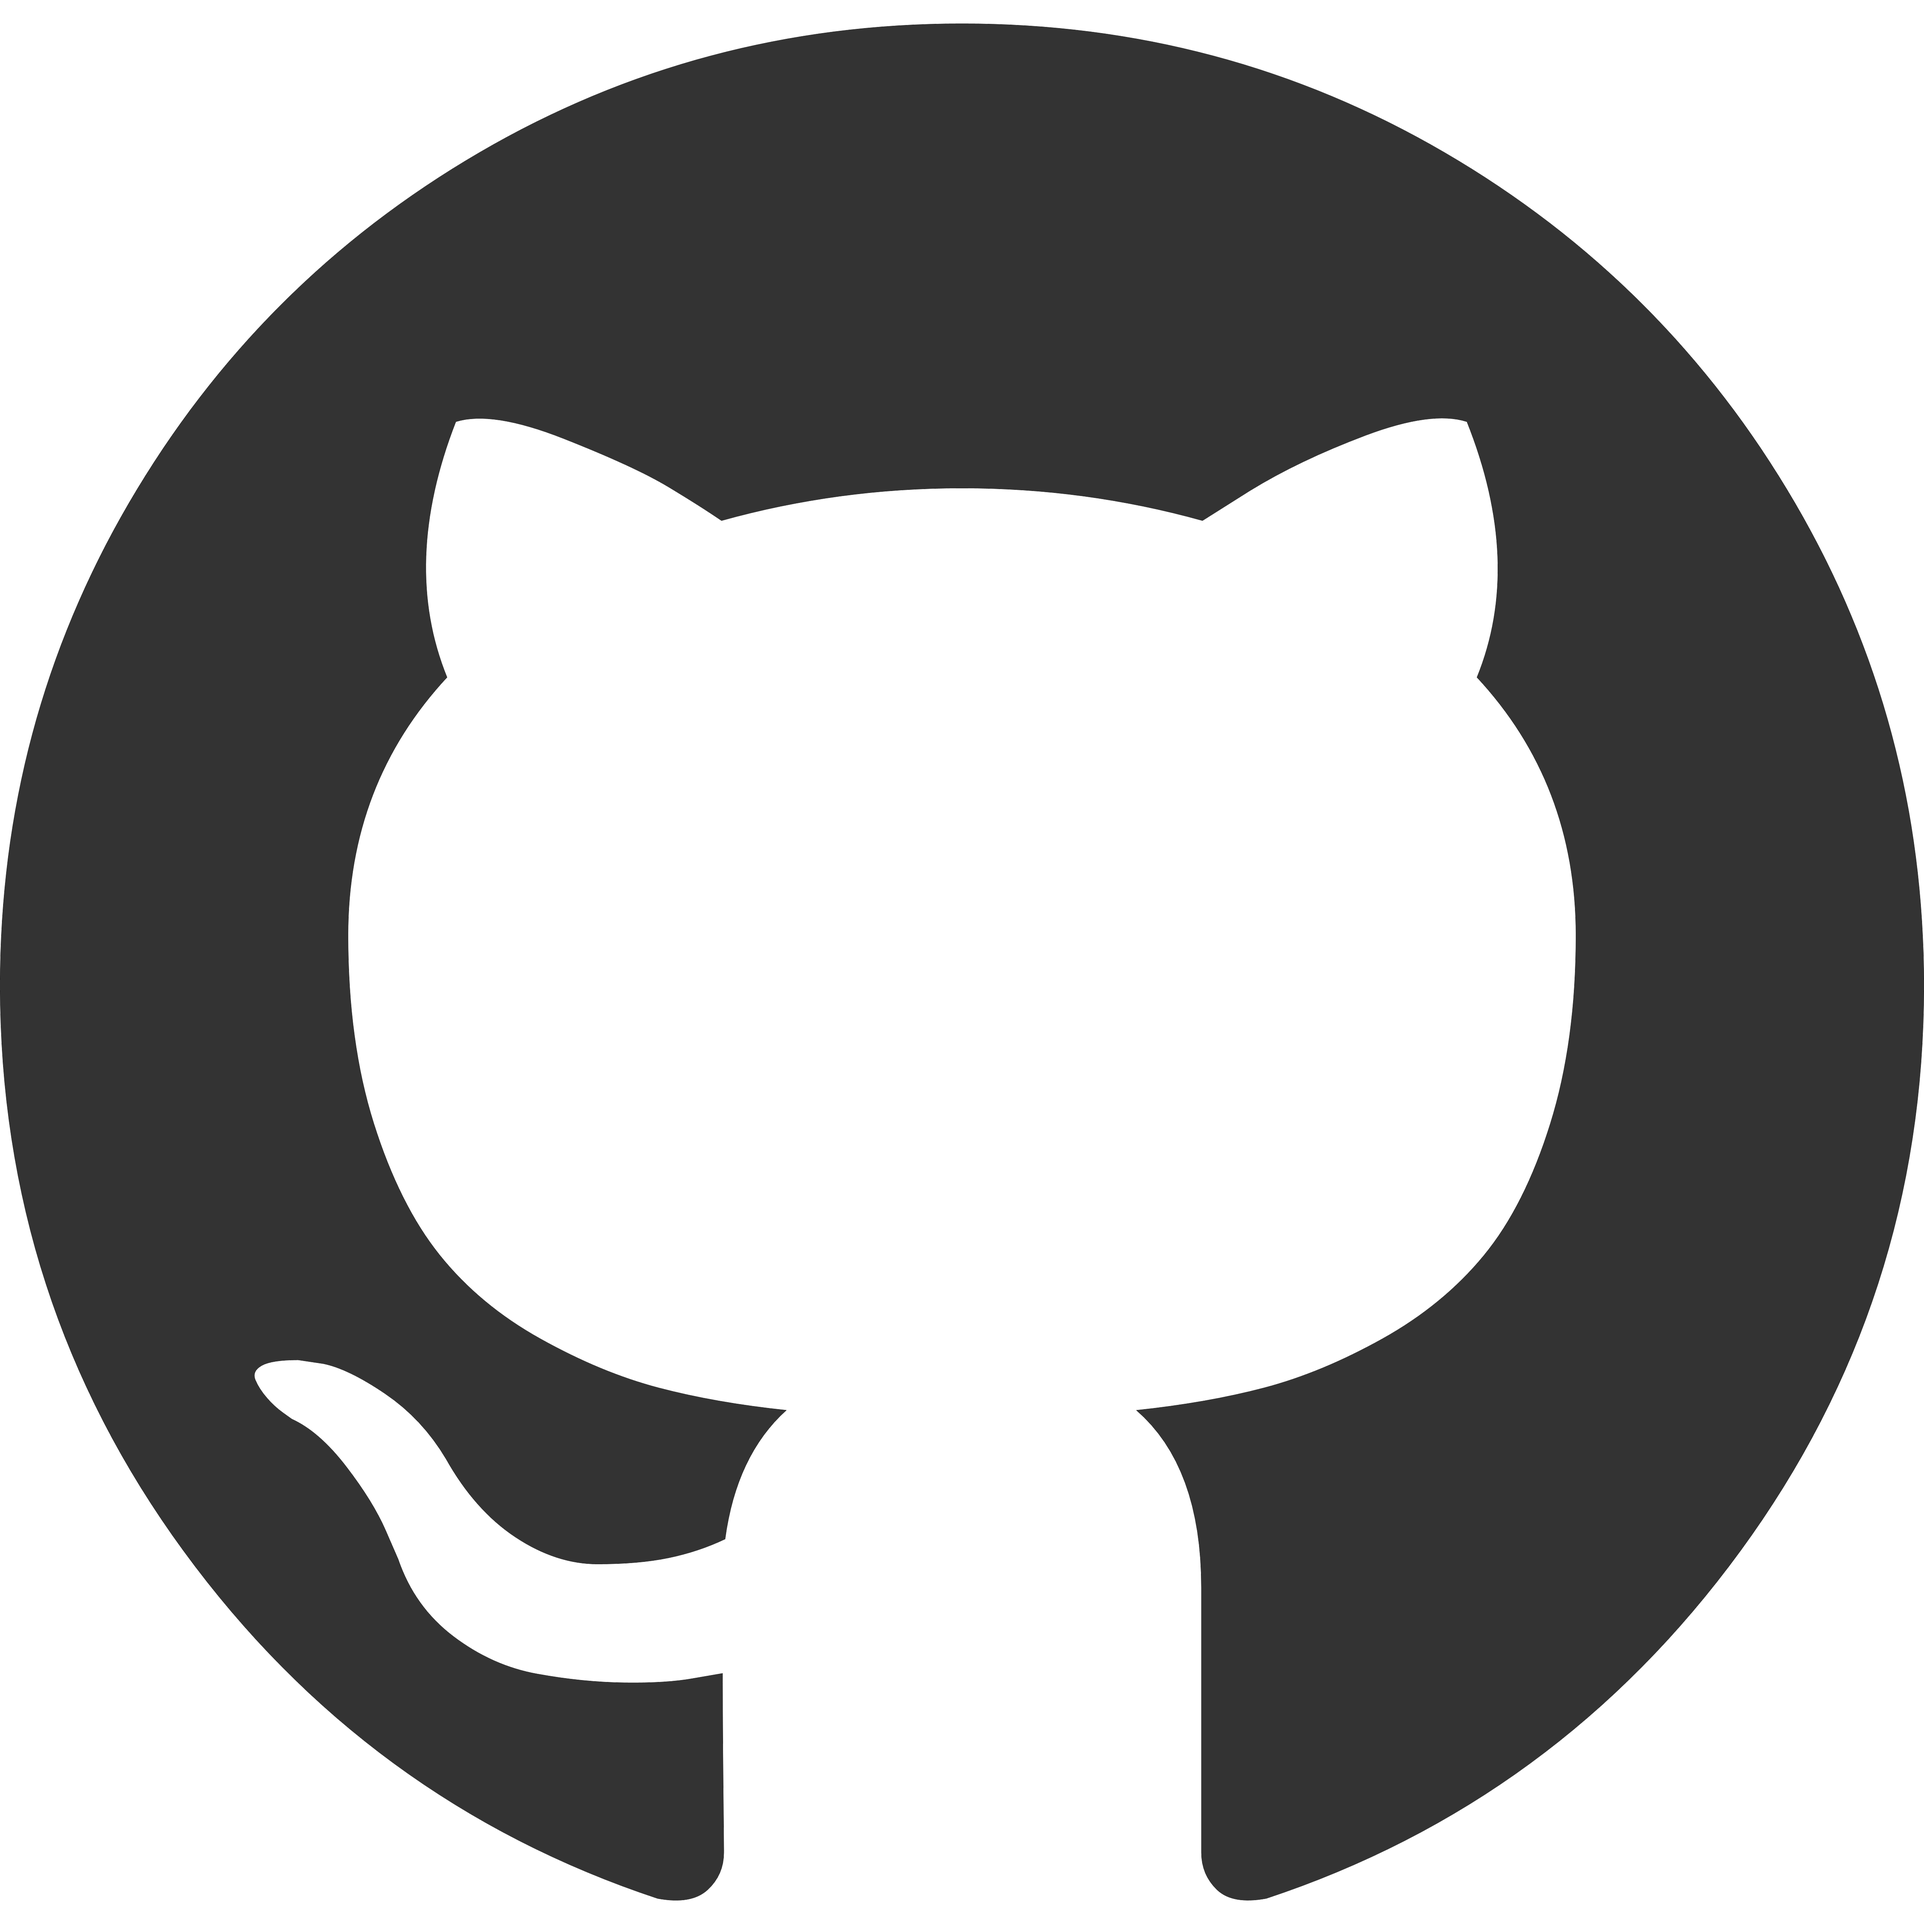
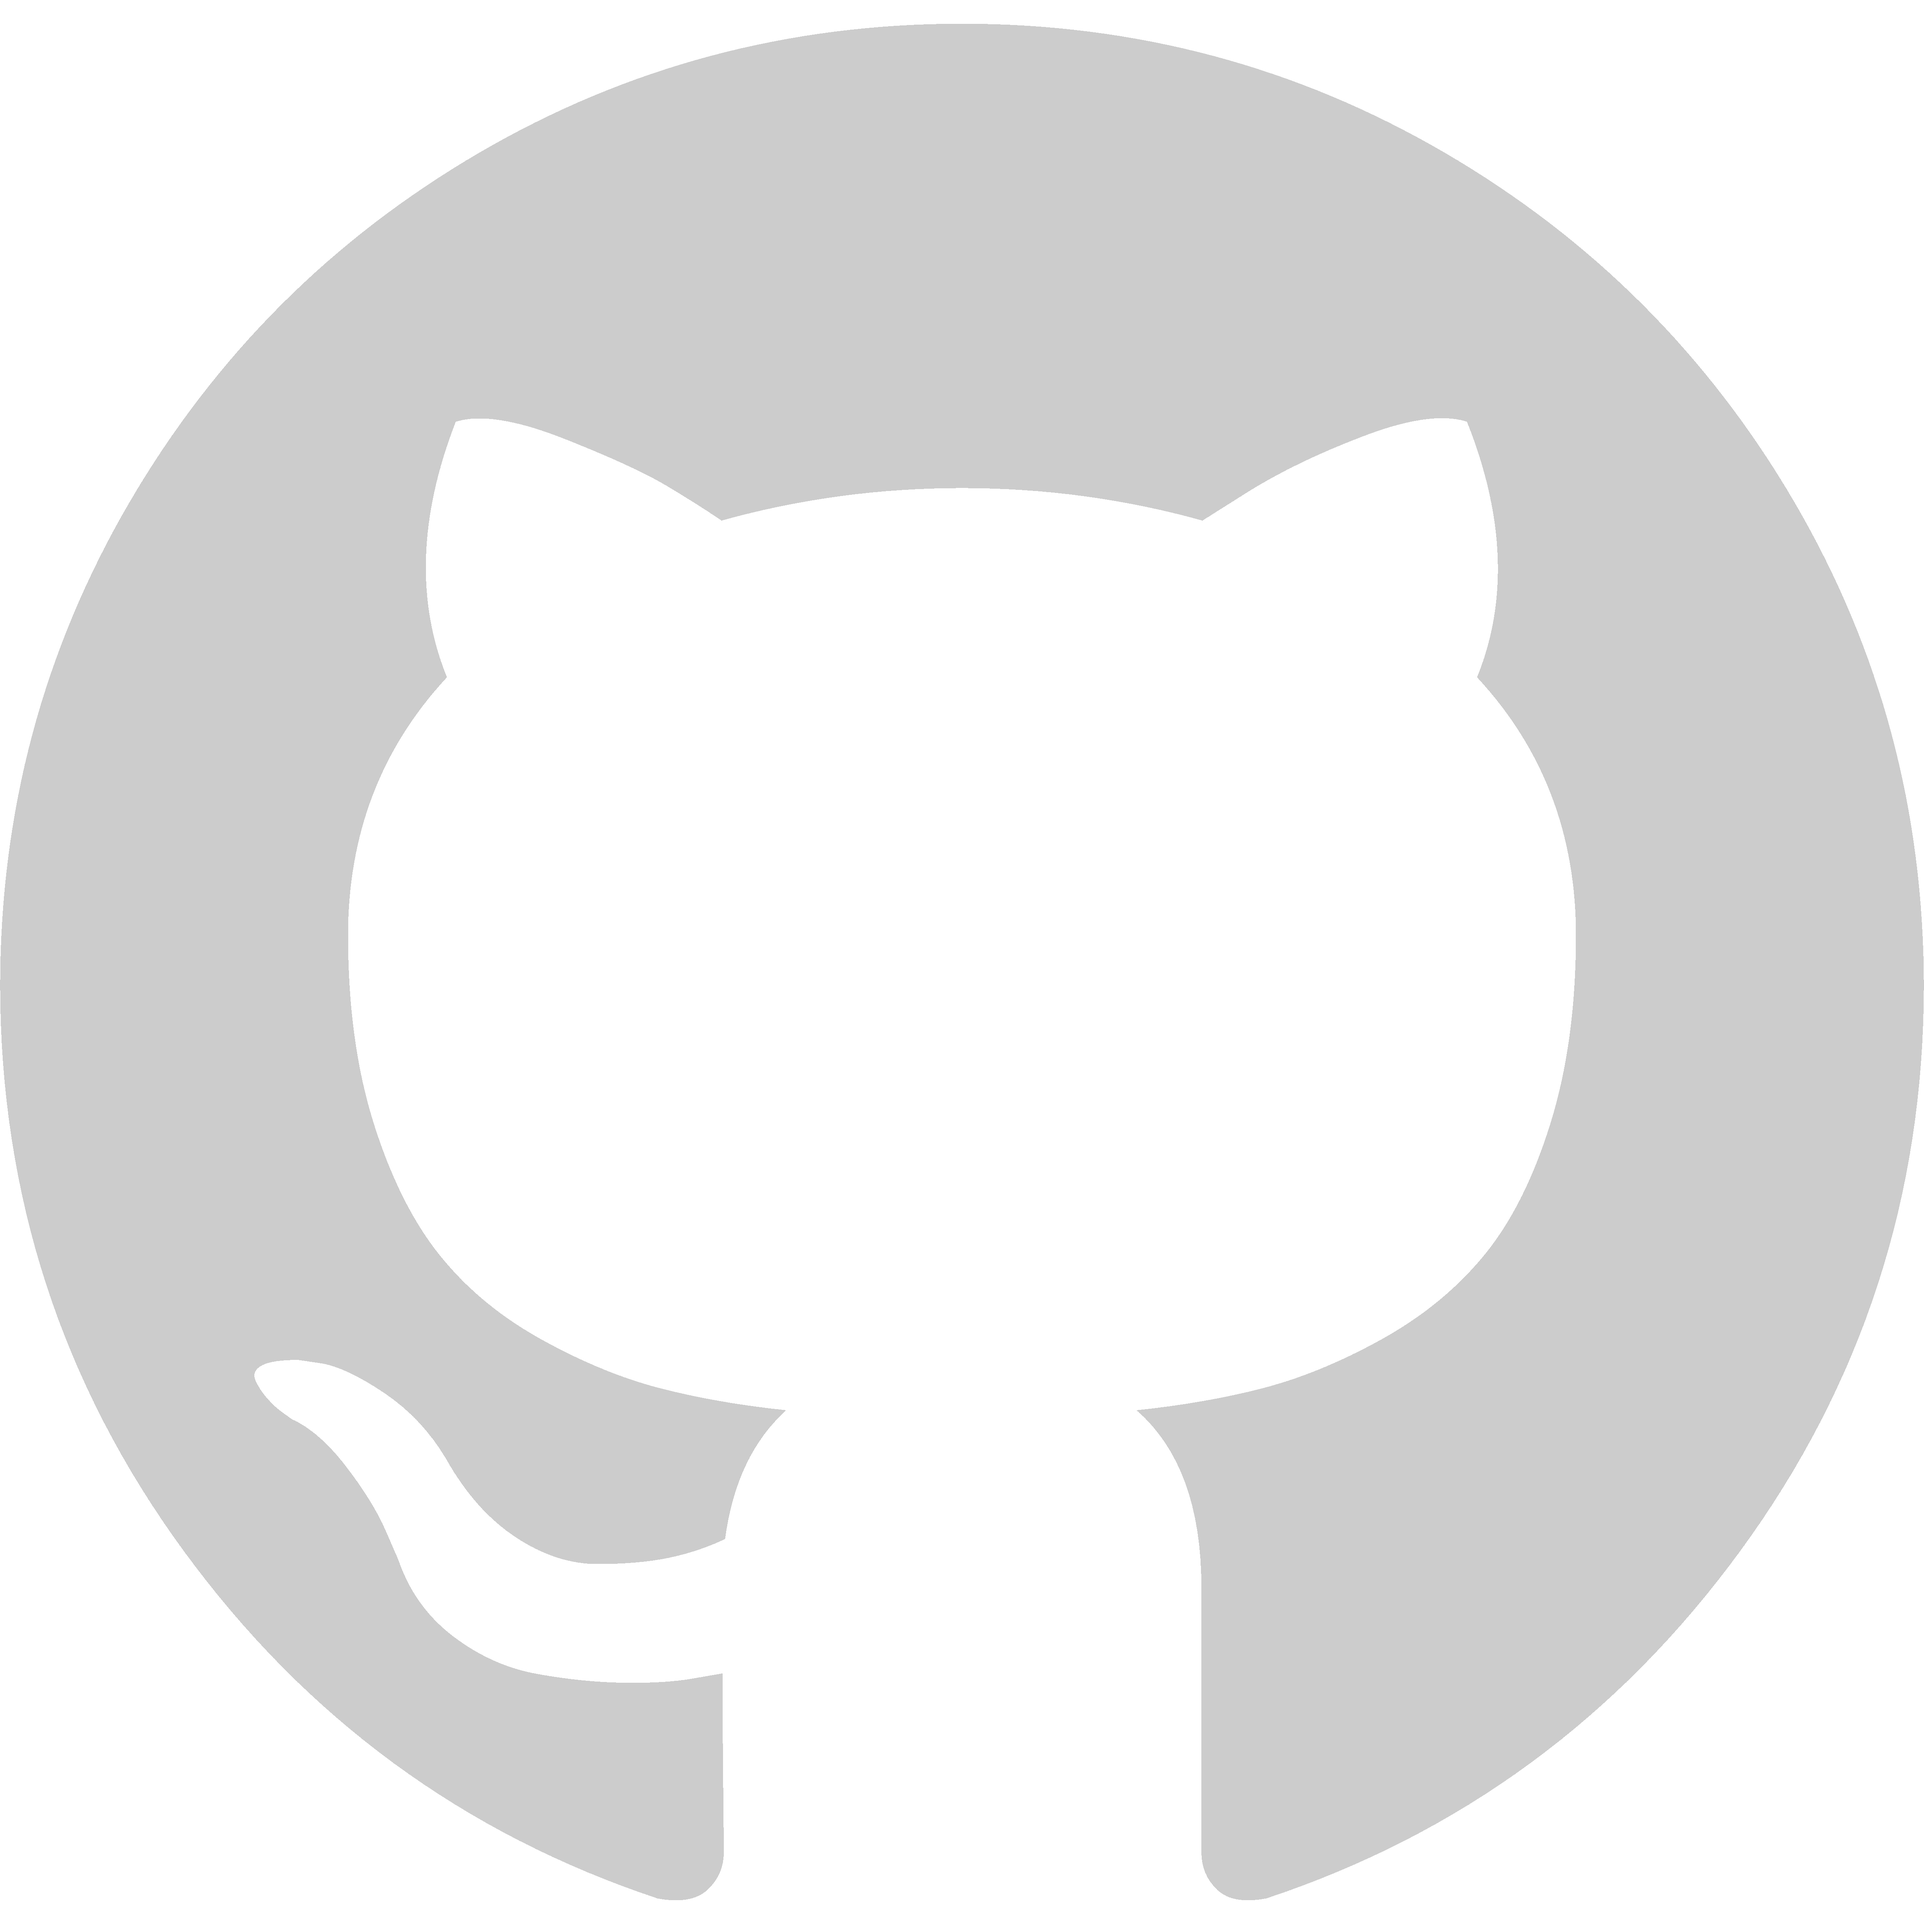
better socials hover

diff --git a/pages/aboutme.tsx b/pages/aboutme.tsx
@@ -25,6 +25,7 @@ function Aboutme() {
 					<li>divear0</li>
 				</ul>
 			</article>
+			<h1 className="headerText">Find me here</h1>
 			<div className="socials">
 				{socials.map((s, i) => {
 					return (
@@ -32,8 +33,7 @@ function Aboutme() {
 							onClick={() => open(s[1].toString(), "_blank")}
 							className="social"
 						>
-							{" "}
-							<Image width={50} height={50} src={s[0]}></Image>
+							<Image width={100} height={100} src={s[0]}></Image>
 						</button>
 					);
 				})}

diff --git a/styles/globals.css b/styles/globals.css
@@ -108,7 +108,6 @@ button:hover {
 	padding: 0.2vw;
 }
 .redirs *:hover {
-	/* text-decoration: underline solid 1px; */
 	border-bottom: 0.6vh var(--secBg) solid;
 	animation: fade 0.5s;
 }
@@ -320,5 +319,10 @@ button:hover {
 }
 .social {
 	margin: 1vw;
+	background-color: transparent;
+}
+.social:hover {
+	border-radius: 0;
+	border-bottom: var(--frTrans) solid 0.2vw;
 	background-color: transparent;
 }
